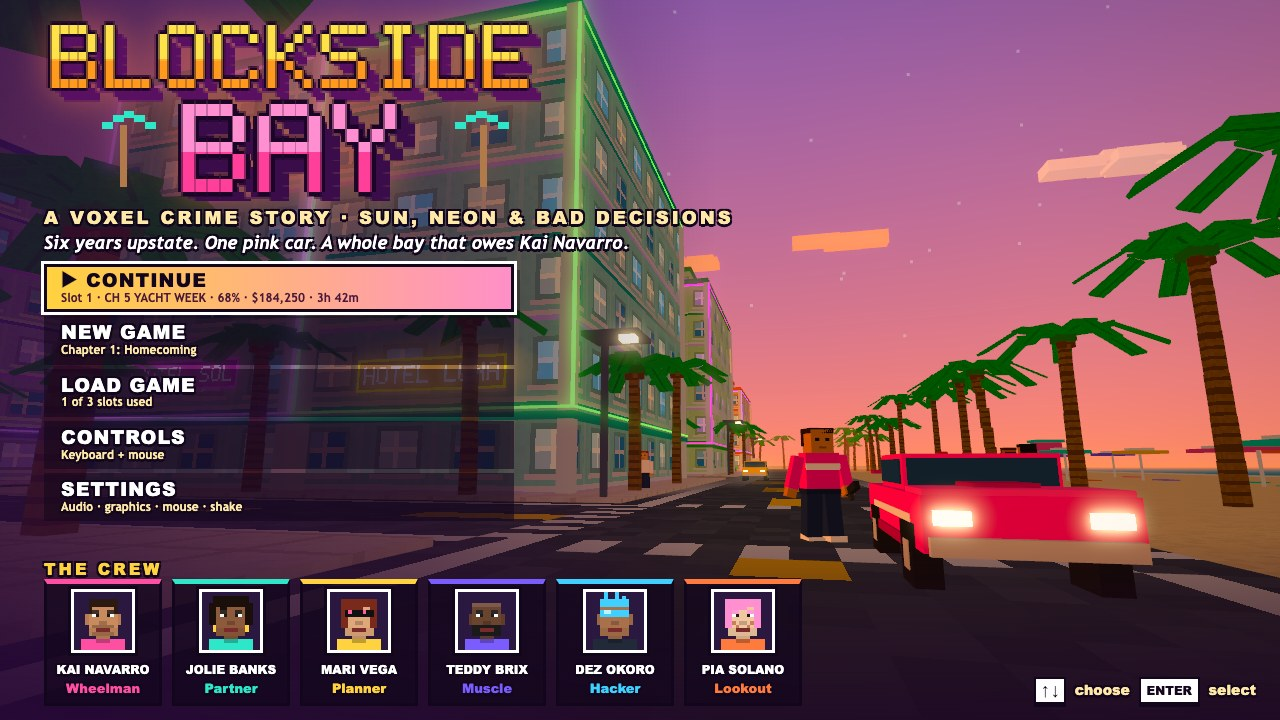
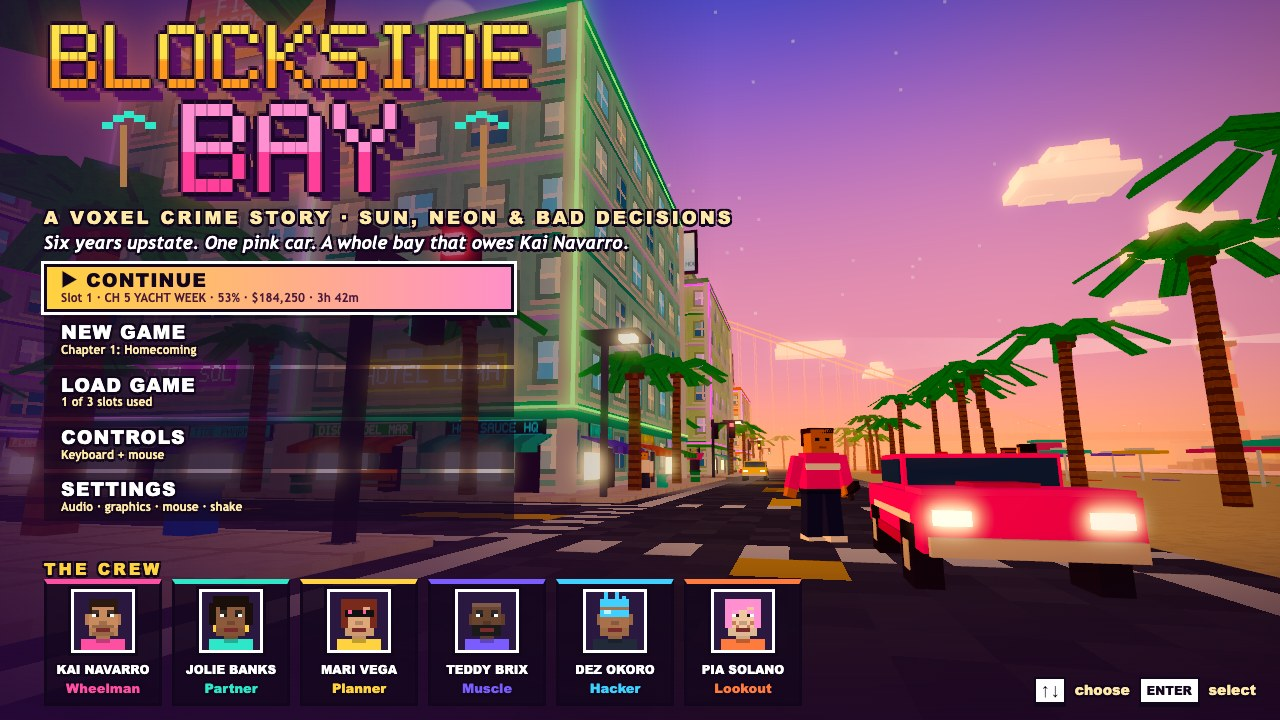
Screenshots recaptured with new graphics and activity pins; map pins clear of district labels; README features

diff --git a/game/src/data/activities-data.js b/game/src/data/activities-data.js
@@ -29,9 +29,9 @@ export const SITES = [
   { id: 'garage1', kind: 'garage', name: 'PAINT & PISTON', x: 3 * CELL + 3, z: 4 * CELL + 24, nx: 1, nz: 0, color: '#3fa0ff', ch: 'P' },
   { id: 'garage2', kind: 'garage', name: 'PAINT & PISTON', x: 6 * CELL + 24, z: 6 * CELL + 3, nx: 0, nz: 1, color: '#3fa0ff', ch: 'P' },
   { id: 'gun1', kind: 'gunshop', name: 'LEAD & LIME', x: 4 * CELL + 14, z: 3 * CELL - H - 1.5, nx: 0, nz: -1, color: '#ff5f3f', ch: 'A' },
-  { id: 'gun2', kind: 'gunshop', name: 'LEAD & LIME', x: 2 * CELL - H - 1.5, z: 5 * CELL + 30, nx: -1, nz: 0, color: '#ff5f3f', ch: 'A' },
+  { id: 'gun2', kind: 'gunshop', name: 'LEAD & LIME', x: 2 * CELL - H - 1.5, z: 6 * CELL + 20, nx: -1, nz: 0, color: '#ff5f3f', ch: 'A' },
   { id: 'depot', kind: 'courier', name: 'BAYLINK PARCEL', x: 2 * CELL + 14, z: 7 * CELL - 3, nx: 0, nz: -1, color: '#5dff6a', ch: 'D' },
-  { id: 'cabs', kind: 'cabstand', name: 'PALOMAR CAB CO.', x: 5 * CELL + 3, z: 3 * CELL + 24, nx: 1, nz: 0, color: '#ffd23f', ch: 'T' },
+  { id: 'cabs', kind: 'cabstand', name: 'PALOMAR CAB CO.', x: 6 * CELL - 3, z: 4 * CELL + 30, nx: -1, nz: 0, color: '#ffd23f', ch: 'T' },
 ];
 
 export const SHOP = [

diff --git a/README.md b/README.md
@@ -19,7 +19,11 @@ BLOCKSIDE BAY is an original voxel open-world crime game that runs in the browse
 - Street reputation: XP from missions, takedowns, carjacks and escapes raises your REP level and title
 - 9 story missions with dialogue: steal, deliver, eliminate, pick up, timed escapes and boss fights. The mission panel shows the stage, the objective, what comes next and a tip; the map shows numbered story pins and a route
 - A day/night cycle with golden-hour haze and a bloom post pass (neon, light bars and muzzle flashes glow), tyre smoke, skid marks, speed streaks and speed-based camera FOV and shake, a rotating minimap, and a pause menu with Map, Missions, Stats, Save and Settings tabs
-- Three procedural WebAudio radio stations (synthwave, bay house, tropical brass)
+- In-game graphics: filmic tone curve, exposure, a time-of-day colour grade and vignette, soft distance haze, a gradient sky with sun disc, moon and drifting voxel clouds, texel-snapped soft shadows, and a shader sea with rolling swells, sun glitter and shoreline foam
+- Landmarks of its own: the HALCYON SPAN suspension bridge with its own traffic, the CORAL WHEEL Ferris wheel by the pier, MANGROVE MARINA with bobbing boats, and the POINT GLASS lighthouse whose beam sweeps the bay at night
+- Street life: shopfronts with invented names and striped awnings, rooftop billboards, benches, bins, hydrants, mailboxes, BAYLINK bus shelters and working traffic signals that civilian cars stop for; headlights, tail lights and police strobes at night; tall beams over mission markers
+- Side activities (press **G**): three street races with checkpoints, a countdown and bronze/silver/gold times; PALOMAR CAB taxi fares with tips and streaks; BAYLINK PARCEL delivery runs; PAINT & PISTON garages (repair, respray that sheds a star if the police can't see you, engine and grip upgrades); LEAD & LIME gun counters (ammo, early SMG and scatter gun with enough rep, body armor); 30 hidden SEA GLASS shards. All of them show on the minimap and the pause map legend, pay cash and rep, and are counted in STATS and saved
+- Procedural WebAudio: a mixer with compressor, limiter and reverb/delay sends; four radio stations (synthwave, bay house, tropical brass, lo-fi keys) with drums, bass, chords and lead/arpeggio; an engine that shifts through five gears and responds to the throttle; tyre screech; police sirens with distance, stereo pan and doppler; surf, city hum, gulls by day and crickets at night; UI clicks and hovers. All of it follows the volume settings
 - Skills that improve as you play (driving, shooting, stamina, stealth) and 3 save slots stored in localStorage
 
 **Controls**
@@ -29,6 +33,7 @@ BLOCKSIDE BAY is an original voxel open-world crime game that runs in the browse
 - **Shift**: sprint on foot, handbrake in a car (Space also works as handbrake)
 - **F**: enter, exit or steal a vehicle
 - **E**: talk to a nearby pedestrian on foot, change radio station in a car
+- **G**: start a race, go on taxi duty, take a parcel run, or open a garage / gun counter. **1-4** buy in those menus
 - **Tab** (or Q): cycle weapons. **1-4**: pick a weapon. **R**: reload
 - **M**: map and save menu
 - **Esc**: pause
@@ -38,12 +43,12 @@ BLOCKSIDE BAY is an original voxel open-world crime game that runs in the browse
 `game/src` is split by job:
 
 - `core/`: boot and main loop, config, seeded RNG, shared state, input, save slots, settings
-- `world/`: city builder, daylight, textures, voxel batching, models, traffic, pedestrians
-- `gameplay/`: player, camera, vehicles, carjacking, police, combat, missions, progression
-- `data/`: story missions and the cast
+- `world/`: city builder, daylight and sky, clouds, water, landmarks, storefronts, street furniture and signals, activity sites, textures, voxel batching, models, traffic, pedestrians
+- `gameplay/`: player, camera, vehicles, carjacking, police, combat, missions, progression, side activities (races, jobs, shops, collectibles)
+- `data/`: story missions, the cast, side-activity data
 - `ui/`: HUD, minimap, menus, dialogue, pixel font
-- `audio/`: procedural radio and sound effects
-- `fx/`: particles, smoke, skid marks, post-processing, colour grade
+- `audio/`: mixer, radio stations, sound effects, ambience
+- `fx/`: particles, smoke, skid marks, car lights, post-processing, colour grade
 - `dev/`: deterministic screenshot scenes (`?shot=chase|title|combat|map&seed=1`)
 
 ## Run it
